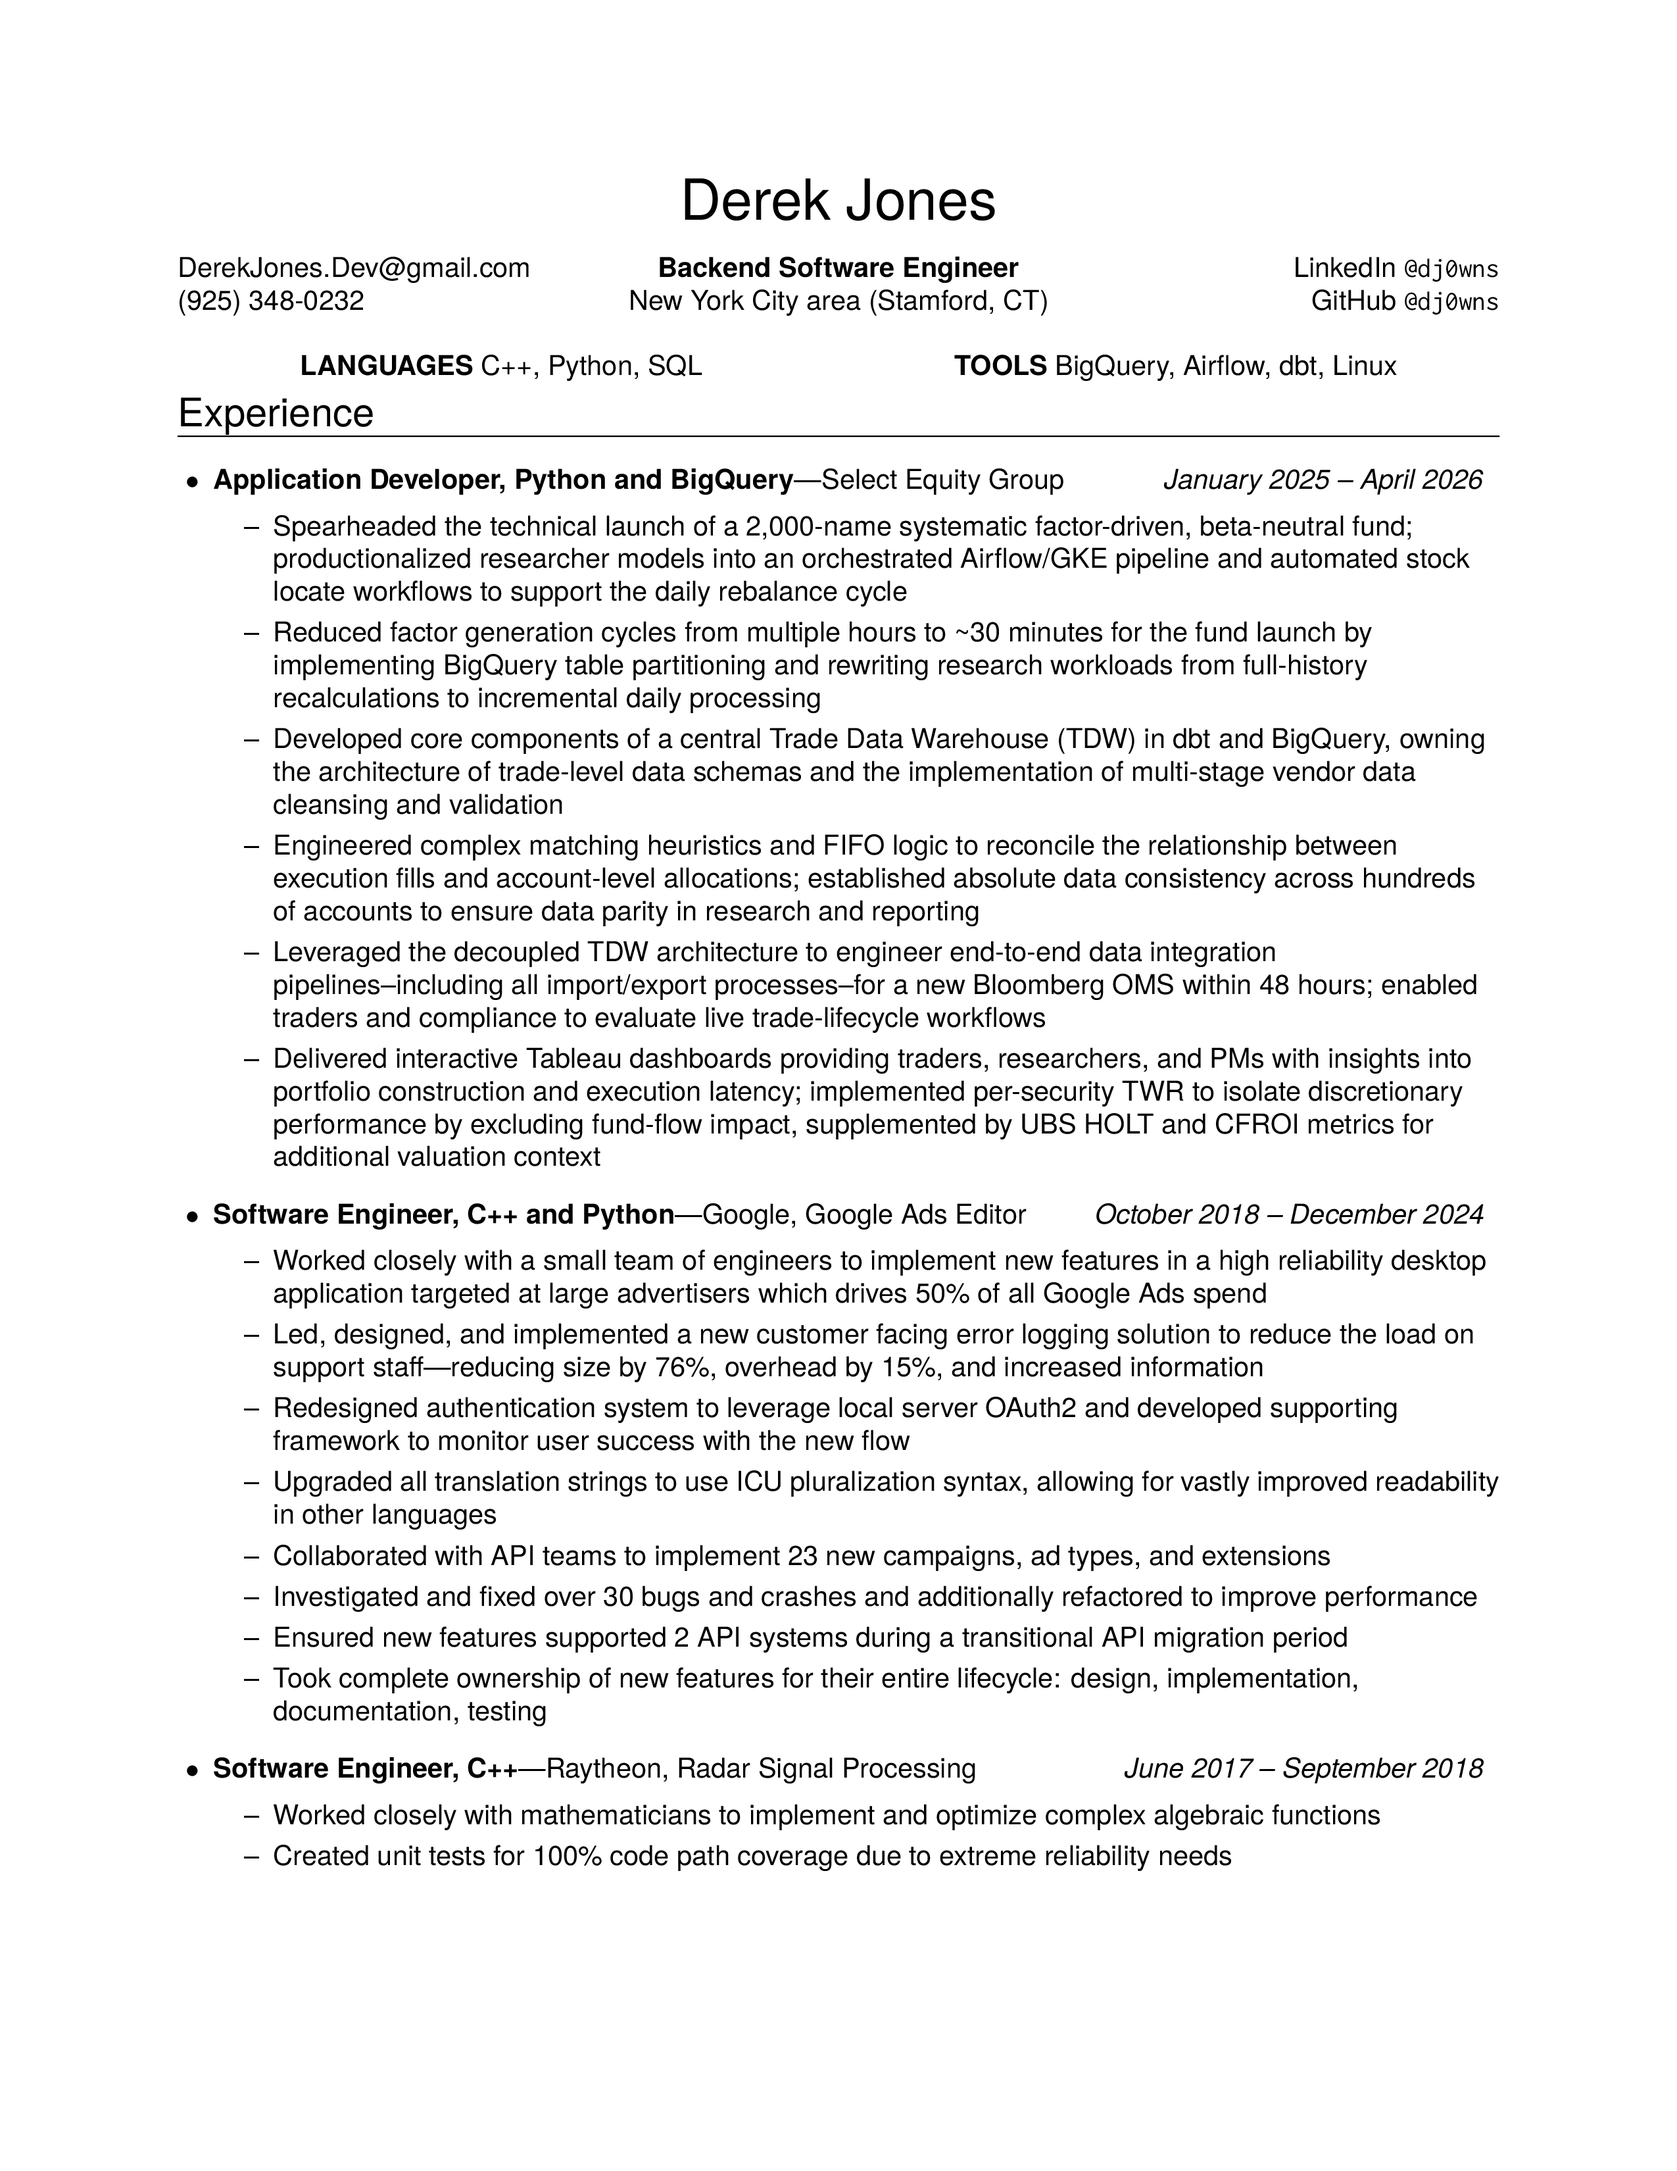
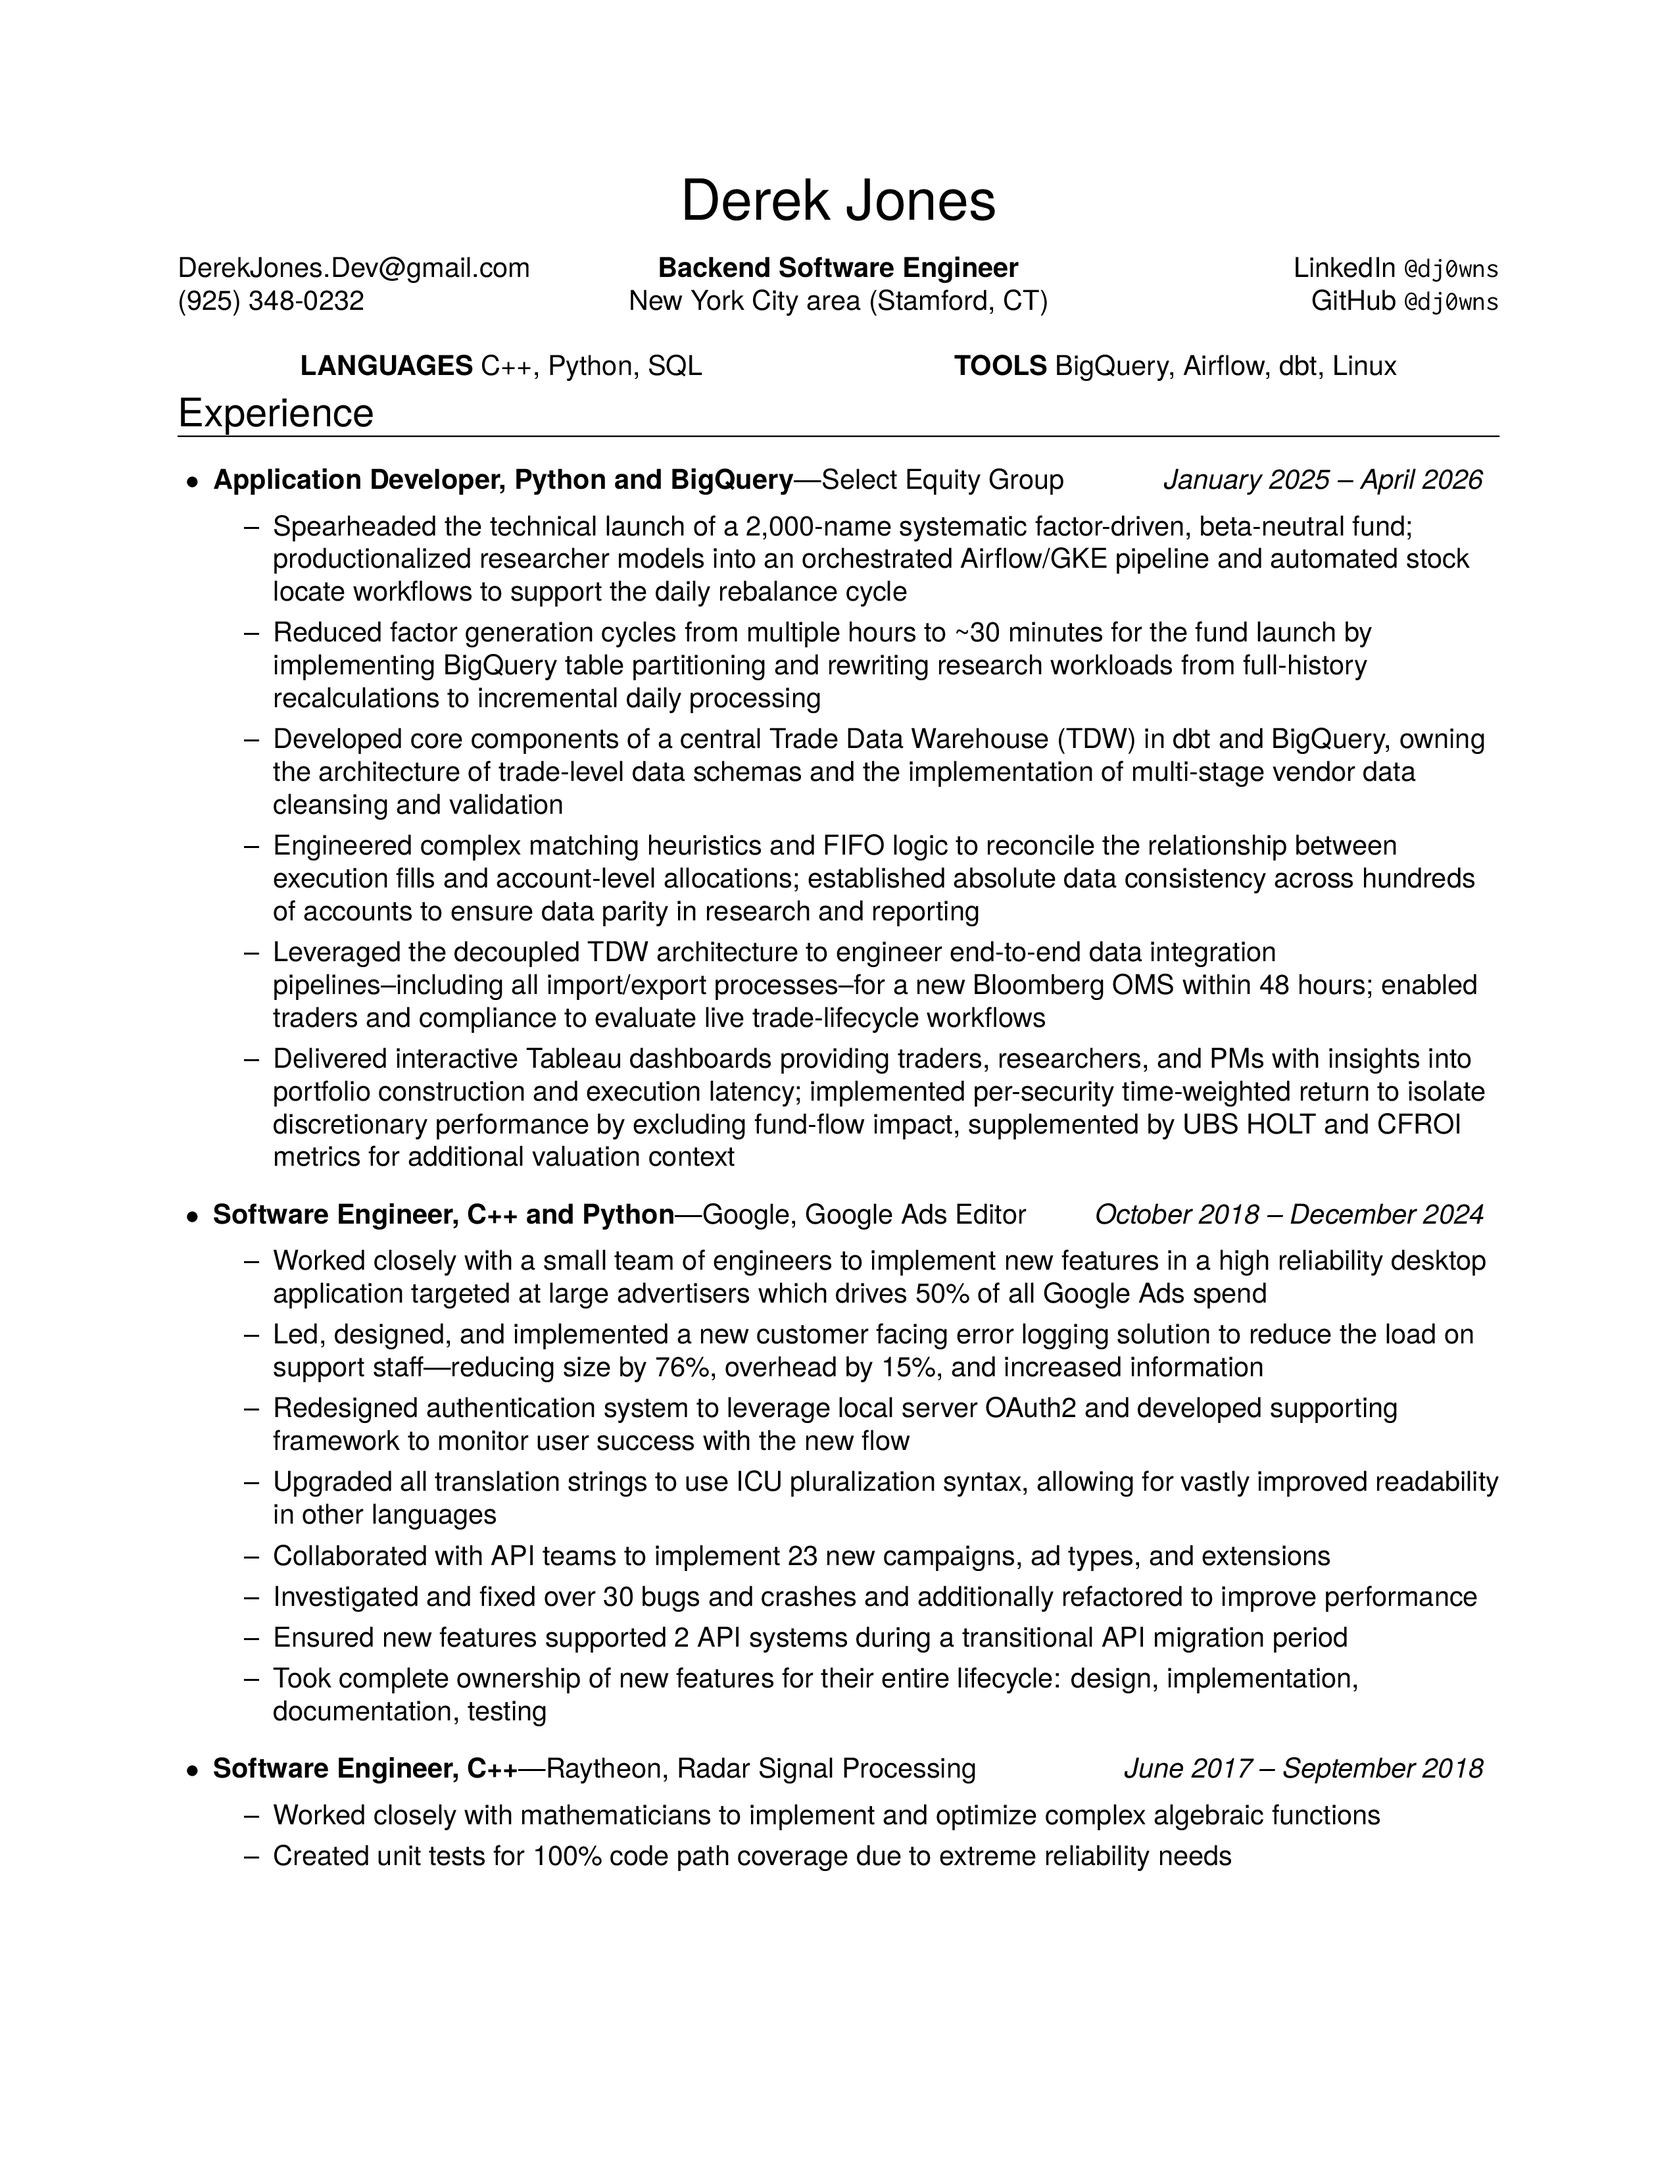
Fixed some readability sections

Changed region(s): [[0.1549, 0.4994, 0.8675, 0.5618]]

diff --git a/src/resume.tex b/src/resume.tex
@@ -226,7 +226,7 @@
 	    \ressubitem{Developed core components of a central Trade Data Warehouse (TDW) in dbt and BigQuery, owning the architecture of trade-level data schemas and the implementation of multi-stage vendor data cleansing and validation}
 	    \ressubitem{Engineered complex matching heuristics and FIFO logic to reconcile the relationship between execution fills and account-level allocations; established absolute data consistency across hundreds of accounts to ensure data parity in research and reporting}
 	    \ressubitem{Leveraged the decoupled TDW architecture to engineer end-to-end data integration pipelines--including all import/export processes--for a new Bloomberg OMS within 48 hours; enabled traders and compliance to evaluate live trade-lifecycle workflows}
-	    \ressubitem{Delivered interactive Tableau dashboards providing traders, researchers, and PMs with insights into portfolio construction and execution latency; implemented per-security TWR to isolate discretionary performance by excluding fund-flow impact, supplemented by UBS HOLT and CFROI metrics for additional valuation context}
+	    \ressubitem{Delivered interactive Tableau dashboards providing traders, researchers, and PMs with insights into portfolio construction and execution latency; implemented per-security time-weighted return to isolate discretionary performance by excluding fund-flow impact, supplemented by UBS HOLT and CFROI metrics for additional valuation context}
 	\end{ressubsecline}
   \begin{ressubsecline}{Software Engineer, C++ and Python}{Google, Google Ads Editor}{October 2018 -- December 2024}
     % Half the ad spend goes through our application
@@ -257,7 +257,7 @@
 %%%%%%%%%%%%%%%%%%%%%%%%
 \begin{ressection}{Projects}
   \begin{ressubseclinenodate}{Exavolt: Reverse Engineering and Assembly Code Injection}{Independent Research}{x86 and PowerPC Assembly, Python}
-    \ressubitem{Independently discovered and chained a buffer overflow and format string vulnerability to achieve novel arbitrary code execution (ACE) in a retail hardware environment, establishing a persistent entry point for running root-level code in a retail environment}
+    \ressubitem{Independently discovered and chained a buffer overflow and format string vulnerability to achieve novel arbitrary code execution in a retail hardware environment, establishing a persistent entry point for running root-level code}
     \ressubitem{Architected the Exavolt framework to facilitate the arbitrary modification of core game logic for the cult-classic Metal Arms; deployed thousands of lines of handwritten assembly via multi-stage loaders and automated the binary patching workflow in Python}
   \end{ressubseclinenodate}
   \begin{ressubseclinenodate}{AoEPulse.com}{Hobby Project}{Python Django with PostgreSQL and React.js}
